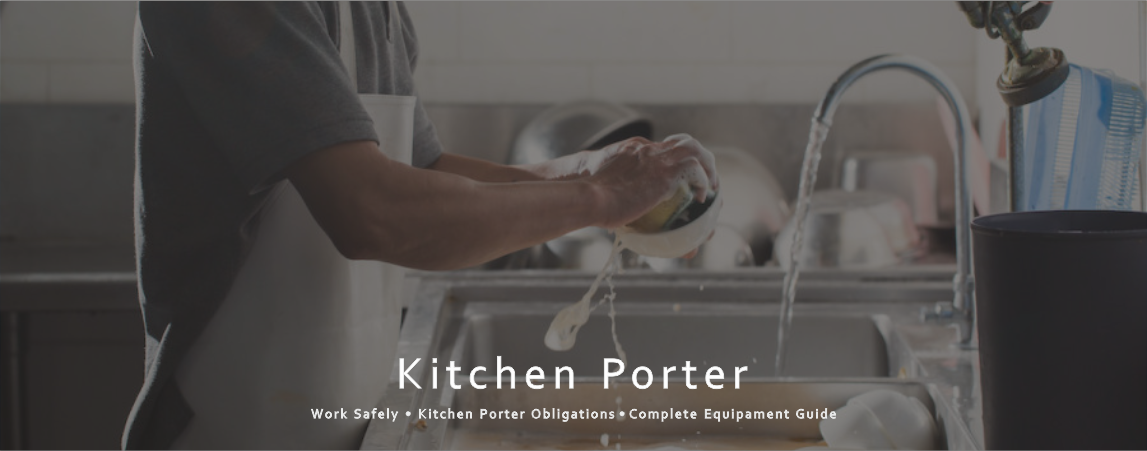
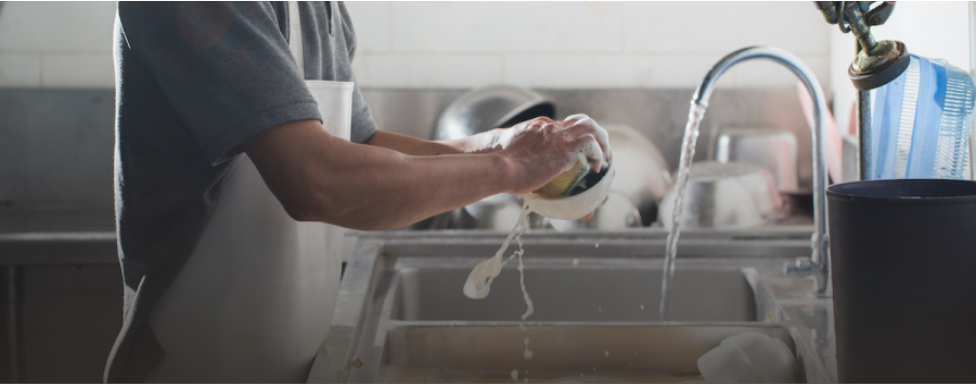
css update

diff --git a/src/App.js b/src/App.js
@@ -11,9 +11,6 @@ import { NavBar } from './components/NavBar/NavBar'
 import { ToastContainer } from 'react-toastify';
 import 'react-toastify/dist/ReactToastify.css';
 
-//REACT-RESPONSIVE-CAROUSEL
-import "react-responsive-carousel/lib/styles/carousel.min.css"; 
-import { Carousel } from 'react-responsive-carousel';
 
 import { HomePage } from './pages/HomePage/HomePage';
 
@@ -21,9 +18,26 @@ import { useWindowSize } from './services/windowDimensions';
 
 import WhyPage from './pages/WhyPage/WhyPage';
 
+import Slider from "react-slick";
+import "slick-carousel/slick/slick.css"; 
+import "slick-carousel/slick/slick-theme.css";
+
 
 function App() {
   const { width } = useWindowSize()
+
+  var settings = {
+    dots: false,
+    infinite: true,
+    speed: 500,
+    slidesToShow: 1,
+    slidesToScroll: 1,
+    slickPlay: true,
+    autoplay: true,
+    arrows: false,
+    autoPlaySpeed:true,
+  };
+
   return (
     <BrowserRouter>
         <ToastContainer
@@ -47,25 +61,31 @@ function App() {
 
         <NavBar />
         <CarouselContainer>
-          <Carousel
-            infiniteLoop = {true}
-            autoPlay={true}
-            showThumbs={false}
-            showStatus={false}
-            showIndicators={false}
-            showArrows={false}
-            >
-            <div>
-                <img src={width < 600 ? './kpimage2.png' : './kpimage.png'} alt='kpimage'/>
-            </div>
- 
-            <div>
-                <img src={width < 600 ? './kpimage2.png' : './kpimage.png'} alt='kpimage'/>
-            </div>
-            <div>
-                <img src={width < 600 ? './kpimage2.png' : './kpimage.png'} alt='kpimage'/>
-            </div>
-          </Carousel>
+          <Slider {...settings}>
+              <div>
+                <section>
+                  <h2>Kitchen Porter</h2>
+                  <p>Lorem ipsum dolor sit amet consectetur adipisicing elit. Laboriosam est ducimus quasi distinctio vel fuga veniam consequuntur eveniet minima fugiat rerum numquam accusamus, eligendi nulla praesentium voluptatibus et. Magnam, aliquid.</p>
+                </section>
+                <img src={width < 600 ? './kpimage2.png' : './kpimage.png'} alt='kpimage'/>                
+              </div>
+              
+              <div>
+              <section>
+                  <h2>Kitchen Porter1</h2>
+                  <p>Lorem ipsum dolor sit amet consectetur adipisicing elit. Laboriosam est ducimus quasi distinctio vel fuga veniam consequuntur eveniet minima fugiat rerum numquam accusamus, eligendi nulla praesentium voluptatibus et. Magnam, aliquid.</p>
+                </section>
+                <img src={width < 600 ? './kpimage2.png' : './kpimage.png'} alt='kpimage'/>                
+              </div>
+
+              <div>
+              <section>
+                  <h2>Kitchen Porter2</h2>
+                  <p>Lorem ipsum dolor sit amet consectetur adipisicing elit. Laboriosam est ducimus quasi distinctio vel fuga veniam consequuntur eveniet minima fugiat rerum numquam accusamus, eligendi nulla praesentium voluptatibus et. Magnam, aliquid.</p>
+                </section>
+                <img src={width < 600 ? './kpimage2.png' : './kpimage.png'} alt='kpimage'/>                
+              </div>                     
+          </Slider>
         </CarouselContainer>
         <Switch>
           <Route exact path="/" component={HomePage}/>

diff --git a/src/pages/HomePage/HomePage.js b/src/pages/HomePage/HomePage.js
@@ -1,8 +1,8 @@
 import React from 'react'
-// import { Link } from 'react-router-dom'
+
 import { CourseCard } from '../../components/CourseCard/CourseCard'
 import { Container } from './styles'
-// import { Carousel } from 'react-responsive-carousel';
+
 import { useWindowSize } from '../../services/windowDimensions';
 import emailjs from 'emailjs-com';
 import { toast } from 'react-toastify';
@@ -30,36 +30,17 @@ export function HomePage() {
         
         var settings = {
             infinite: true,
-            slidesToShow: width < 600 ? 2 : width < 1000 ? 3 : 6,
+            slidesToShow: width < 600 ? 2 : width < 1000 ? 5 : 6,
             slidesToScroll: 1,
             autoplay: true,
             speed: 2000,
             autoplaySpeed: 2000,
             cssEase: "linear",
-
+            arrows: false,
           };
 
     return (
         <Container>
-            {/* <Carousel
-            infiniteLoop = {true}
-            autoPlay={true}
-            showThumbs={false}
-            showStatus={false}
-            showIndicators={false}
-            showArrows={false}
-            >
-                <div>
-                    <img src={width < 600 ? './logo2.png' : './logo1.png'}  alt='kpimage'/>
-                </div>
-                <div>
-                    <img src={width < 600 ? './logo2.png' : './logo1.png'}  alt='kpimage'/>
-                </div>
-                <div>
-                    <img src={width < 600 ? './logo2.png' : './logo1.png'}  alt='kpimage'/>
-                </div>
-              
-            </Carousel> */}
             <div className='logoCasousel'>
                 <Slider {...settings}>
                     <img src="./l1.png" alt="" />                

diff --git a/src/styles/styles.js b/src/styles/styles.js
@@ -1,5 +1,44 @@
 import styled from 'styled-components'
 
+export const CarouselContainer = styled.div`
+    div{
+        position: relative;
+        height: calc(100vh - 5.5rem);
+        section{
+            position: absolute;
+            bottom: 3rem;
+            left: 2rem;
+            color: var(--gray);
+            h2{
+                font-size:3rem;
+            }
+            p{
+                margin-top: 1rem;
+            }
+        }
+
+
+        img{
+            height: 100%;
+        }
+
+        @media (max-width: 600px) {
+            section{
+                width: 80%;
+                left: 50%;
+                transform: translateX(-50%);
+                h2{
+                    font-size:2rem;
+                }
+                p{
+                    margin-top: 1rem;
+                    text-align: justify;
+                }
+            }
+        }
+    }
+
+`
 
 export const ContainerMessage = styled.div`
     display: flex;
@@ -68,12 +107,3 @@ export const FooterContainer = styled.footer`
     }
 `
 
-export const CarouselContainer = styled.div`
-    .carousel{
-        div{
-            img{
-                height: calc(100vh - 5.5rem);
-            }
-        }
-    }
-`

diff --git a/src/pages/HomePage/styles.js b/src/pages/HomePage/styles.js
@@ -45,6 +45,7 @@ export const Container = styled.div `
             background: var(--blue-500);
             height: 100%;
             min-width: 22rem;
+            border-radius: 2rem 0 2rem 0;
 
             h1{
                 color: var(--gray);
